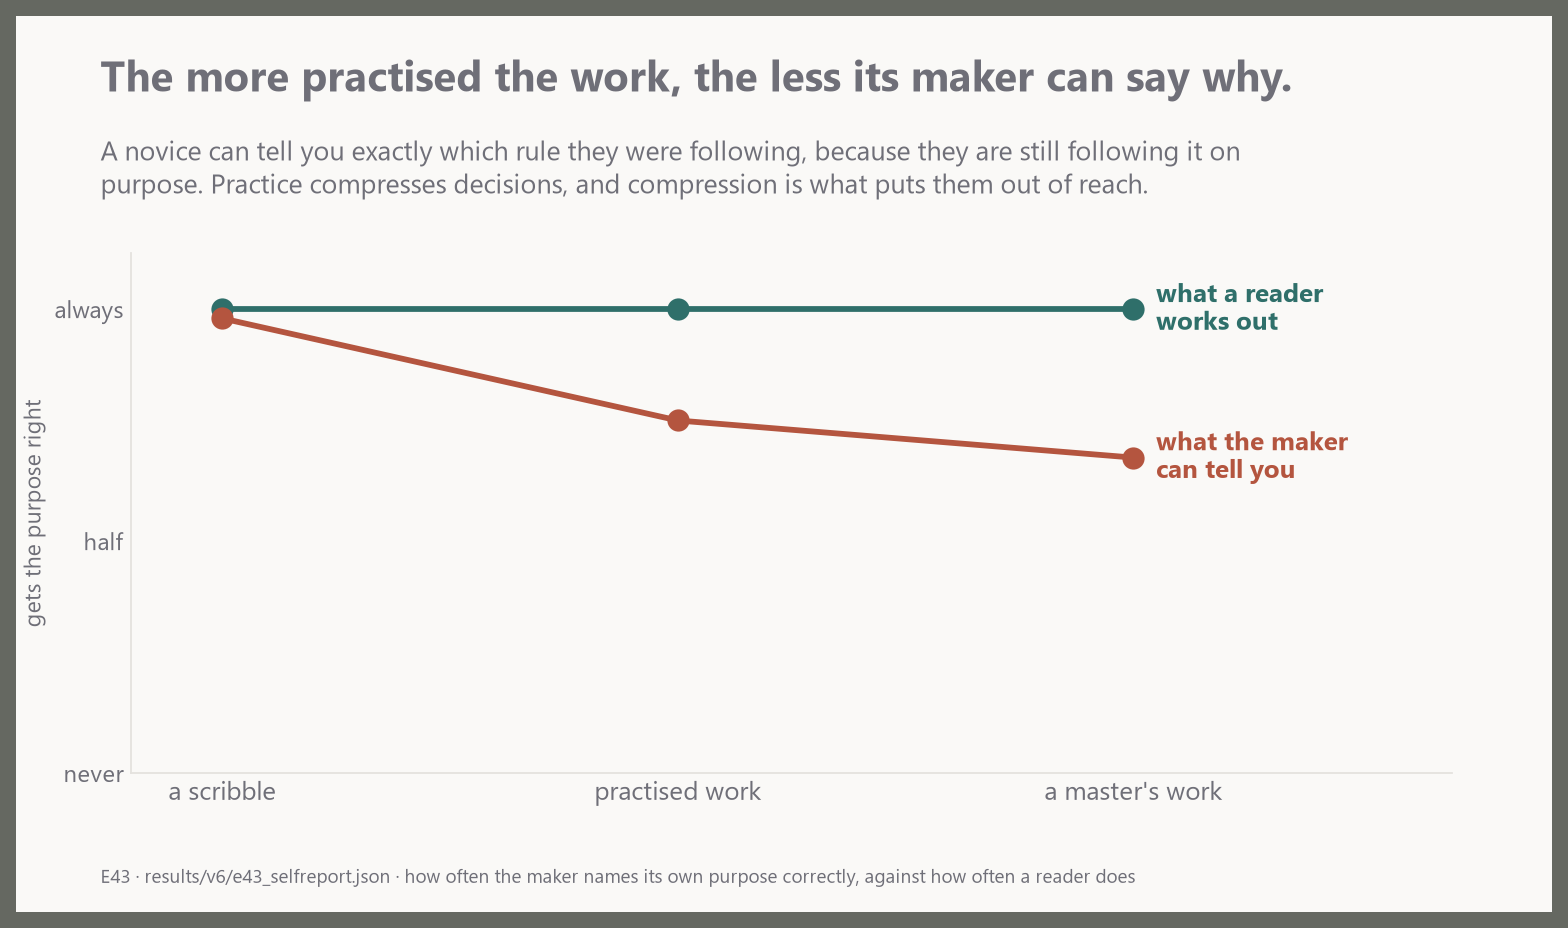
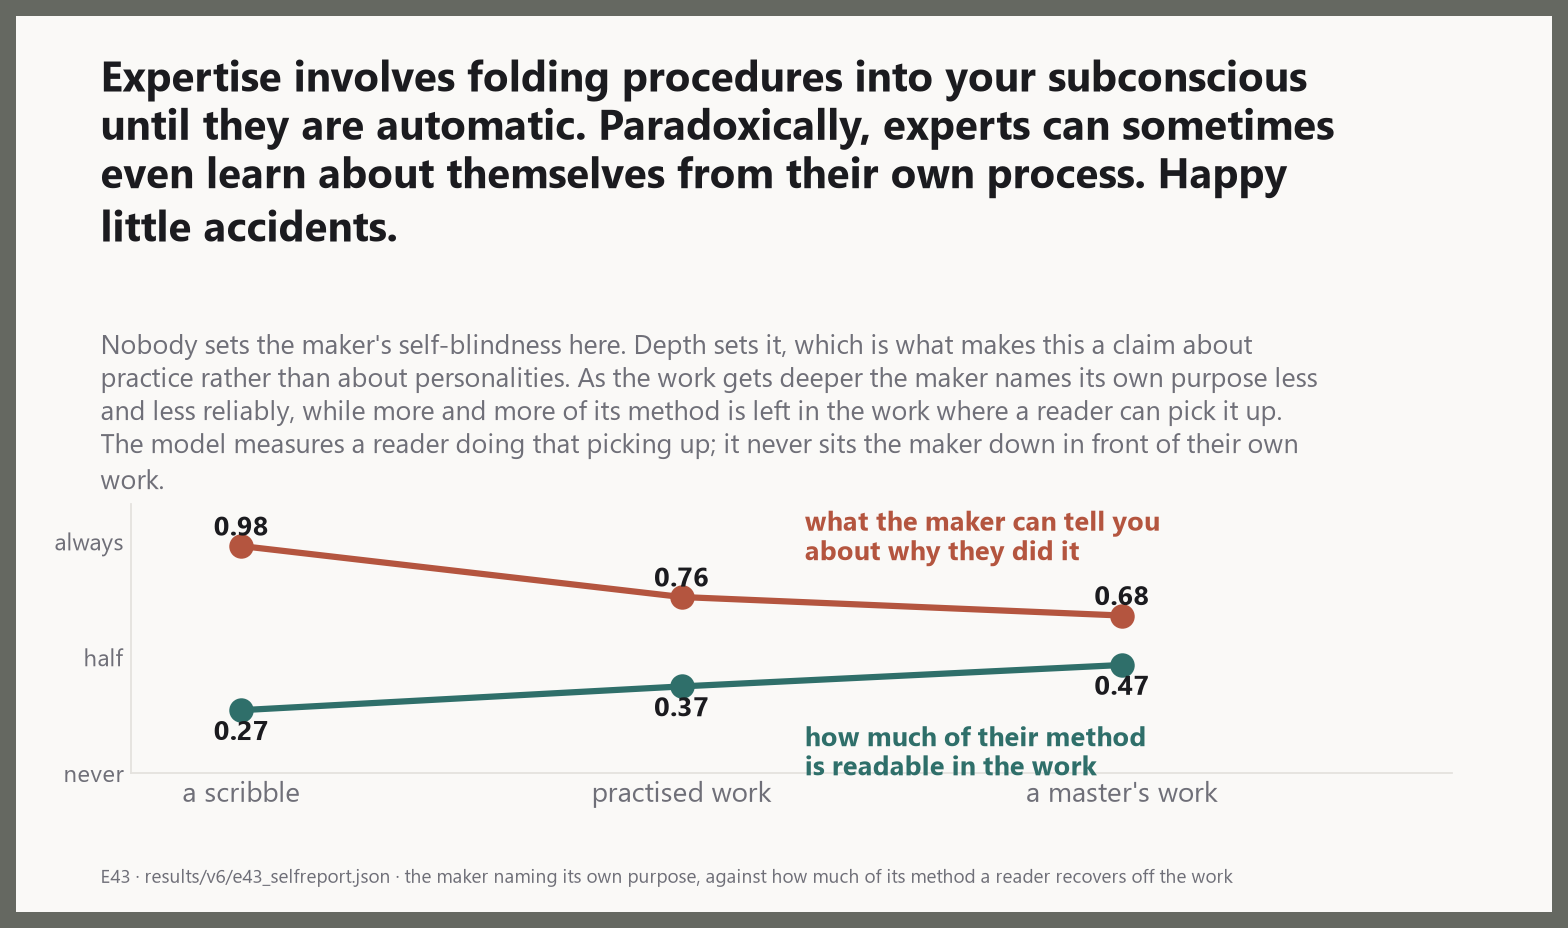
Plates 5 and 11 take the author's titles, and 11 loses a dead line
11 was plotting self-report against the reader's accuracy on the purpose, and
that reader scores 1.00 in all three cells -- a flat line at the ceiling
carrying no information. Redrawn against the pair that actually crosses: what
the maker can say about why falls 0.98 to 0.68 while how much of their method a
reader lifts off the work rises 0.27 to 0.47.

5 carries the bootstrap explanation the author asked for, and the footer now
states that the pre-registered form of this test failed. It also inherits a
demotion: "after settling" is later in the reading than "before settling", so
the later window always has more evidence, and this design cannot separate
resolving the goal unlocking the method from both accruing as you keep looking.
Real result, honestly declared, confound not cleared. It moves to slide three
and 11 opens the carousel.

The construction gate gains the sub-clause that would have caught it: a
within-subject contrast is only safe when the two measurements differ in the
manipulation and not in when they were taken.

diff --git a/scripts/make_walkthrough_plates.py b/scripts/make_walkthrough_plates.py
@@ -278,11 +278,17 @@ def plate_05_intent_unlocks():
     lo, hi = [float(x) for x in d["interval"]]
 
     fig, ax = plate(
-        "Work out what someone was trying to do, and their choices start making sense.",
-        "Inside a single reading: how much of the maker's method the reader picks up, before and "
-        "after it settles on what the work was for.",
-        f"E36 · results/v6/e36_process.json · {d['n_rollouts']} readings · "
-        f"gain {after - before:+.3f}, 95% interval [{lo:+.3f}, {hi:+.3f}]")
+        r"The Math of Empathy: simulating a creator to find $\it{why}$ they did something "
+        r"makes it easy to find out $\it{how}$, and learn from them.",
+        f"Inside a single reading, on the same object: how much of the maker's method the reader "
+        f"picks up before and after it settles on what the work was for. The interval is a "
+        f"bootstrap — resample the {d['n_rollouts']} readings with replacement a few thousand "
+        f"times, recompute the gain each time, and keep the middle 95% of what comes back. It "
+        f"runs [{lo:+.3f}, {hi:+.3f}] and does not touch zero, so the ordering is not an artefact "
+        f"of which readings happened to be drawn.",
+        f"E36 · results/v6/e36_process.json · {d['n_rollouts']} readings · gain "
+        f"{after - before:+.3f} · the pre-registered form failed and is reported as failing",
+        authored=True)
     bars = ax.bar(["Before you work out\nwhat it was for",
                    "After you work out\nwhat it was for"],
                   [before, after], color=[NEUTRAL, HUMAN], width=0.5)
@@ -462,30 +468,57 @@ def plate_10_looking_vs_being_changed():
 # 11 — the master cannot explain themselves.
 # =========================================================================== #
 def plate_11_self_report():
+    """Redrawn against a different pair of series, because the old pair had a dead line in it.
+
+    It plotted the maker's self-report against the READER'S GOAL ACCURACY, and the reader scores
+    1.00, 1.00, 1.00 -- pinned at the ceiling in all three cells. A flat line at the top of a
+    chart carries no information and invites the eye to read a comparison that is not there.
+
+    The pair that matches the finding is the maker's self-report against how much of the maker's
+    METHOD a reader gets off the work. Those move in opposite directions, which is the paradox:
+    the better you get, the less you can say about why, and the more of your process is sitting
+    in the work for somebody else to pick up.
+    """
     d = load("v6/e43_selfreport.json")
     cells = sorted(d["cells"], key=lambda c: c["mu"])
     declared = [float(c["declared_accuracy"]) for c in cells]
+    process = [float(c["process_accuracy"]) for c in cells]
     reader = [float(c["reader_accuracy"]) for c in cells]
 
     fig, ax = plate(
-        "The more practised the work, the less its maker can say why.",
-        "A novice can tell you exactly which rule they were following, because they are still "
-        "following it on purpose. Practice compresses decisions, and compression is what puts "
-        "them out of reach.",
-        "E43 · results/v6/e43_selfreport.json · how often the maker names its own purpose correctly, "
-        "against how often a reader does")
+        "Expertise involves folding procedures into your subconscious until they are automatic. "
+        "Paradoxically, experts can sometimes even learn about themselves from their own "
+        "process. Happy little accidents.",
+        "Nobody sets the maker's self-blindness here. Depth sets it, which is what makes this a "
+        "claim about practice rather than about personalities. As the work gets deeper the maker "
+        "names its own purpose less and less reliably, while more and more of its method is left "
+        "in the work where a reader can pick it up. The model measures a reader doing that "
+        "picking up; it never sits the maker down in front of their own work.",
+        "E43 · results/v6/e43_selfreport.json · the maker naming its own purpose, against how "
+        "much of its method a reader recovers off the work",
+        authored=True)
     xs = np.arange(len(cells))
-    ax.plot(xs, reader, "-o", color=HUMAN, lw=2.6, ms=9)
-    ax.plot(xs, declared, "-o", color=MACHINE, lw=2.6, ms=9)
-    annotate(ax, xs[-1] + 0.05, reader[-1], "what a reader\nworks out",
-             color=HUMAN, va="center", fontsize=11.5, weight="bold")
-    annotate(ax, xs[-1] + 0.05, declared[-1], "what the maker\ncan tell you",
-             color=MACHINE, va="center", fontsize=11.5, weight="bold")
+    ax.plot(xs, declared, "-o", color=MACHINE, lw=2.8, ms=10)
+    ax.plot(xs, process, "-o", color=HUMAN, lw=2.8, ms=10)
+    for x, v in zip(xs, declared):
+        ax.text(x, v + 0.045, f"{v:.2f}", ha="center", fontsize=12, fontweight="bold",
+                color=INK)
+    for x, v in zip(xs, process):
+        ax.text(x, v - 0.045, f"{v:.2f}", ha="center", va="top", fontsize=12,
+                fontweight="bold", color=INK)
+    # Parked off the lines. Both labels used to sit ON their own series, which the collision
+    # audit does not catch because a line is not text.
+    annotate(ax, 1.28, 1.14,
+             "what the maker can tell you\nabout why they did it", color=MACHINE,
+             fontsize=12, weight="bold", va="top")
+    annotate(ax, 1.28, 0.21,
+             "how much of their method\nis readable in the work", color=HUMAN,
+             fontsize=12, weight="bold", va="top")
     ax.set_xticks(xs)
-    ax.set_xticklabels(["a scribble", "practised work", "a master's work"], fontsize=11.5)
-    ax.set_xlim(-0.2, len(cells) - 0.3)
-    ax.set_ylim(0, 1.12)
-    clean_axis(ax, "gets the purpose right")
+    ax.set_xticklabels(["a scribble", "practised work", "a master's work"], fontsize=12.5)
+    ax.set_xlim(-0.25, len(cells) - 0.75 + 0.5)
+    ax.set_ylim(0, 1.16)
+    clean_axis(ax)
     ax.set_yticks([0, 0.5, 1.0])
     ax.set_yticklabels(["never", "half", "always"])
     record(save(fig, "11_the_master_cannot_explain"),

diff --git a/WALKTHROUGH.md b/WALKTHROUGH.md
@@ -366,25 +366,59 @@ And then the experiment measured whether depth changes how much of the **purpose
 couldn't. Not "it didn't" — it *couldn't*. Measured on how much of the **method** transfers, it
 moves.
 
-### 21. Intent unlocks the method
+### 21. The math of empathy
 
 ![Work out what someone was trying to do and their choices start making sense](figures/walkthrough/05_intent_unlocks_the_method.png)
 
 The claim: you work out what someone was *for* first, and that is what makes their choices
-readable — every move can then be read as being in service of it.
+readable — every move can then be read as being in service of it. It is in neither the preprint nor
+the essay. It came out of a conversation.
 
-It is in neither the preprint nor the essay. It came out of a conversation, and it holds — inside a
-single reading, on the same object, before and after the reader settles on the purpose.
+**Read the two forms of this test together, because only one of them holds.**
 
-### 22. The master cannot explain themselves
+The **pre-registered** form is a between-reader contrast: do readers who end up *right* about the
+goal recover more of the method than readers who end up *wrong*? Gap of 0.047 against a required
+0.15. **It fails, and it is reported as failing:** `PROCESS_IS_INDEPENDENT_OF_GOAL`.
+
+The **temporal** form was added afterwards and declared as added. Within a single reading, on the
+same object, method uptake before the goal settles is 0.050 and after it is 0.130 — a gain of
+0.080, bootstrap interval [+0.041, +0.122] over 102 readings, not touching zero.
+
+The version-6 write-up argues the two are not in conflict, because *once you know what someone was
+for you can read their actions as being in service of it* is a within-reader claim and the
+pre-registered criterion tested a between-reader one. That is a fair reading. **It is also the case
+that "after settling" is later in the reading than "before settling", so the later window always has
+more evidence behind it**, and this design cannot separate *resolving the goal unlocked the method*
+from *both accrue as you keep looking*. A time-matched control would separate them and has not been
+run.
+
+So: a real result, honestly declared, with a confound it has not been cleared of. Good enough to
+publish in a walkthrough. **Not the thing to open a carousel with.**
+
+### 22. Expertise folds into the subconscious
 
 ![The more practised the work, the less its maker can say why](figures/walkthrough/11_the_master_cannot_explain.png)
 
 A novice can tell you exactly which rule they were following, because they are still following it on
 purpose. Practice compresses decisions into automatic routines, and compression is precisely what
-puts them out of reach of report.
+puts them out of reach of report. The maker names its own purpose correctly **0.98** of the time on
+a scribble and **0.68** on a master's work.
 
-Note what is *not* happening here: nobody is setting the maker's self-blindness. Depth sets it.
+Note what is *not* happening here: nobody is setting the maker's self-blindness. **Depth sets it**,
+which is a stronger and different claim from E33, where self-blindness was a knob.
+
+The plate used to draw the maker's self-report against the *reader's accuracy on the purpose*, and
+that reader scores 1.00 in all three cells — pinned at the ceiling, a flat line carrying no
+information. It now draws the pair that actually moves in opposite directions: what the maker can
+say about why falls from 0.98 to 0.68, while how much of their **method** a reader lifts off the
+work rises from **0.27 to 0.47**. The better you get, the less you can explain, and the more of your
+process is sitting in the work for someone else to take.
+
+**One claim in the title runs past the experiment.** *Experts can sometimes learn about themselves
+from their own process* is a natural extension — reading intent off work is general, and your own
+work is work — but this model never sits a maker down in front of their own artifact. What it
+measures is a **reader** recovering what the maker cannot report. The extension is plausible and
+untested, and the plate says so in grey.
 
 ### 23. Labelling needs a convention
 
